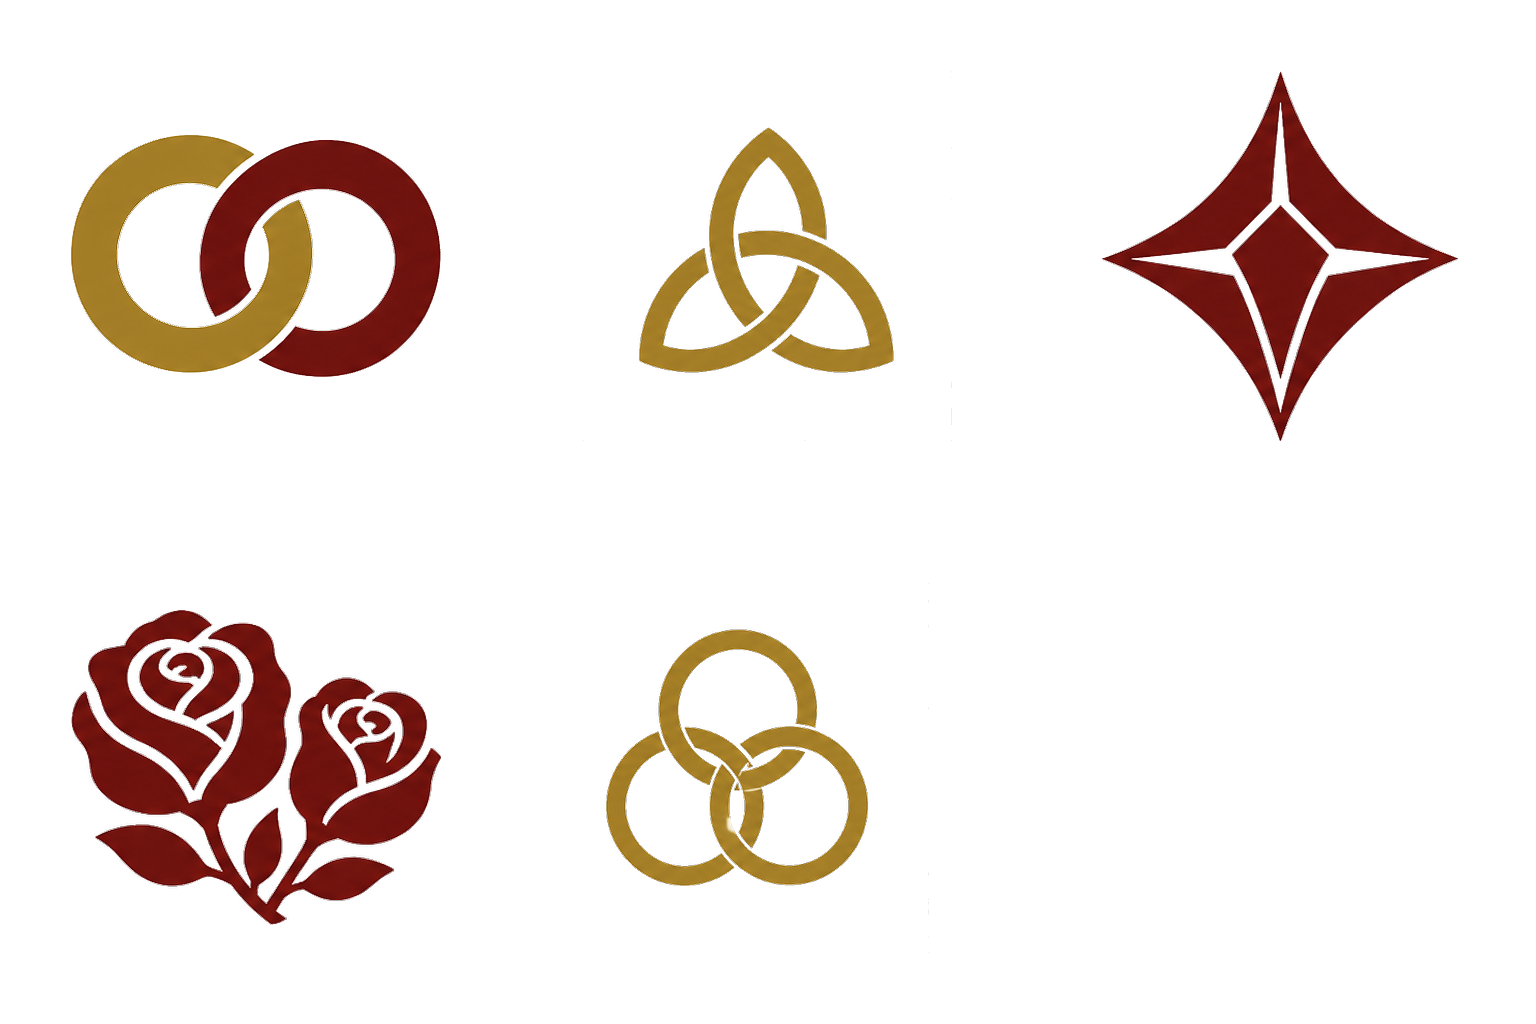
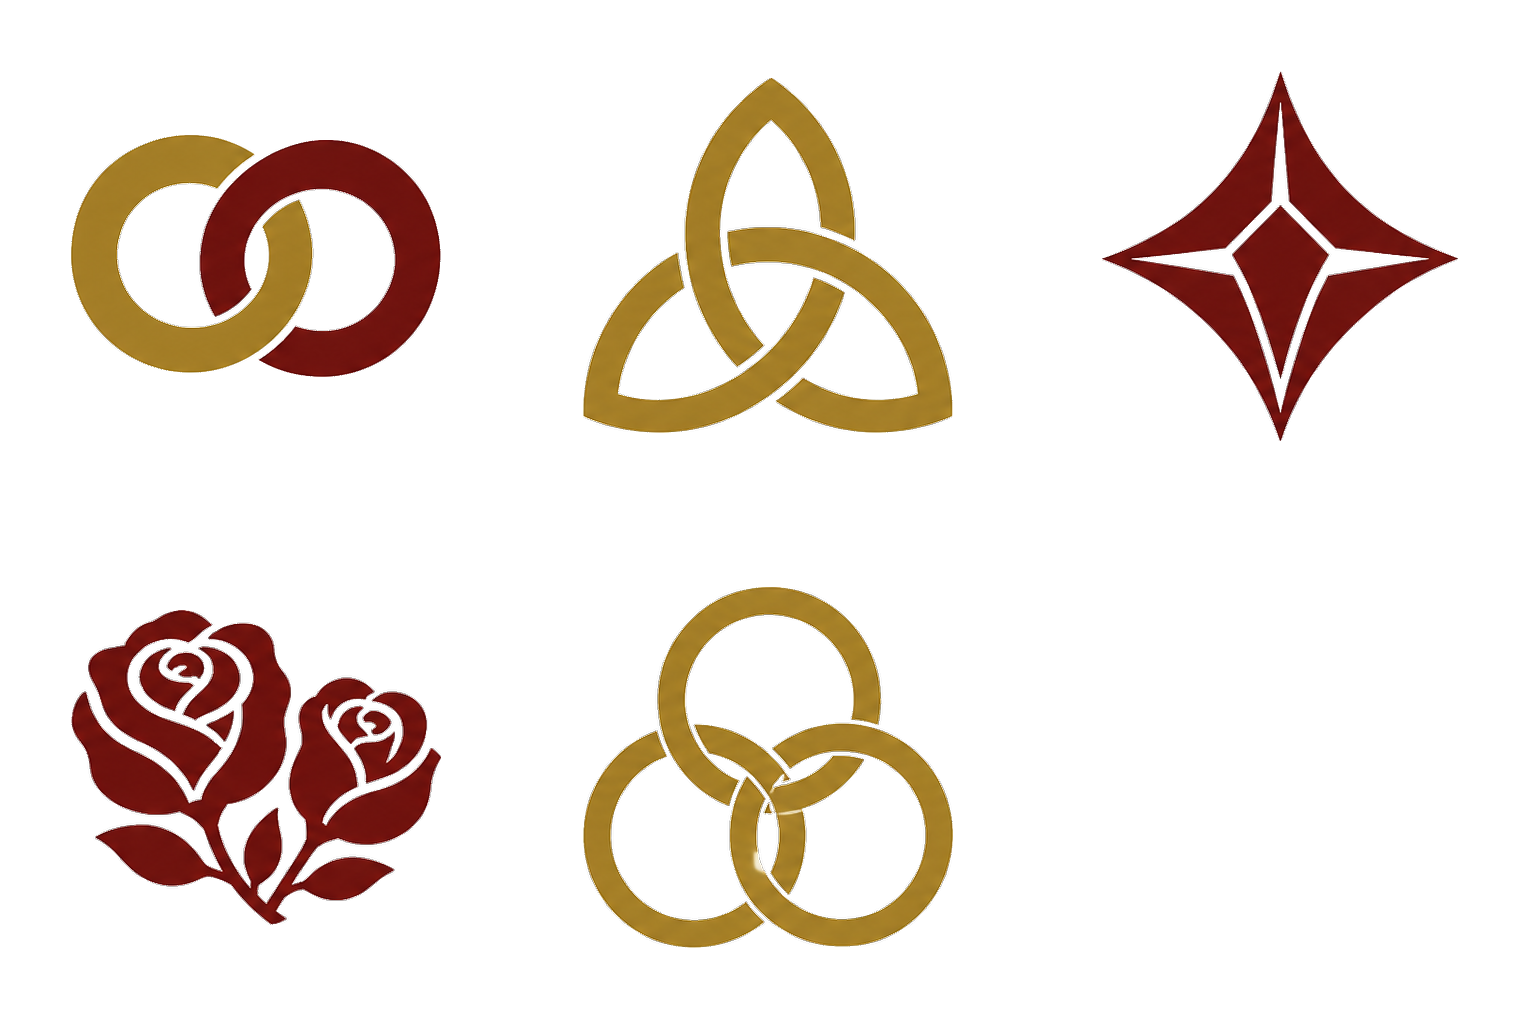
Normalize pictographs for every theme

Changed region(s): [[0.375, 0.5625, 0.625, 0.9375], [0.375, 0.0625, 0.625, 0.4375]]

diff --git a/data/graphics/PROMPTS.md b/data/graphics/PROMPTS.md
@@ -172,6 +172,17 @@ All final atlases were produced with Codex built-in image generation at 1536x102
 - `glyphs/generated/kitchen_witchery/Kitchen Witchery Glyph Atlas v1.png` - crossed spoons with rosemary, three-steam green kettle, copper flame rosette, paired herb measures, and three-flame hearth cauldron. Accepted for board validation.
 - `glyphs/generated/prairie_homestead/Prairie Homestead Glyph Atlas v1.png` - knitting needles and indigo yarn, wheat horseshoe, painted barn star, paired wheat sheaves, and stitched flying-geese quilt block. Accepted for board validation.
 - `glyphs/generated/velvet_leather/Velvet and Leather Glyph Atlas v1.png` - linked leather cuffs, three-strand silk knot, garnet starburst, paired roses, and three-ring leather lattice. Accepted for board validation; objects only, non-explicit.
+
+The original atlas files above are retained as design sources. Their baked white/checker mattes and unequal object bounds are not used at runtime. `tools/extract_neutral_matte.gd` now removes only connected neutral matte components—preserving pale enamel, parchment, linen, and enclosed highlights—then decontaminates the cutout edge. `tools/normalize_pictograph_atlas.gd` fits every object to a common 370-pixel maximum extent and centers it in an exact 512x512 cell.
+
+Runtime atlases produced by that deterministic pipeline:
+
+- `glyphs/generated/wizardry/Wizardry Pictograph Atlas v2.png`
+- `glyphs/generated/gothic_horror/Gothic Horror Pictograph Atlas v3.png`
+- `glyphs/generated/pirate/Pirate Pictograph Atlas v3.png`
+- `glyphs/generated/space_age/Space Age Pictograph Atlas v2.png`
+- `glyphs/generated/kitchen_witchery/Kitchen Witchery Pictograph Atlas v2.png`
+- `glyphs/generated/prairie_homestead/Prairie Homestead Pictograph Atlas v2.png`
 - The hand-authored `Velvet and Leather Pictograph Atlas v2.svg` was rejected after live testing: its simplified redraws became crude heavy shapes at board size and did not preserve the quality of the generated design. It has been removed from the runtime assets.
 - `glyphs/generated/velvet_leather/Velvet and Leather Pictograph Atlas v3 source.png` - built-in image generation design source, 1536x1024 opaque PNG. Five refined, simplified oxblood-and-gold pictographs in a strict 3x2 atlas. Its checkerboard was baked into the RGB pixels, so it is retained only as the reproducible source for matte extraction and is not loaded at runtime.
 - `glyphs/generated/velvet_leather/Velvet and Leather Pictograph Atlas v3.png` - the v3 source processed by `tools/extract_neutral_matte.gd`, then optically normalized by `tools/normalize_pictograph_atlas.gd`. Preserves the generated artwork while replacing the pale checker with genuine alpha, decontaminating its antialiased edges, equalizing its five symbol bounds, and centering each symbol in an exact 512x512 cell. This is the runtime Velvet & Leather atlas and bypasses the legacy matte-removal shader.
